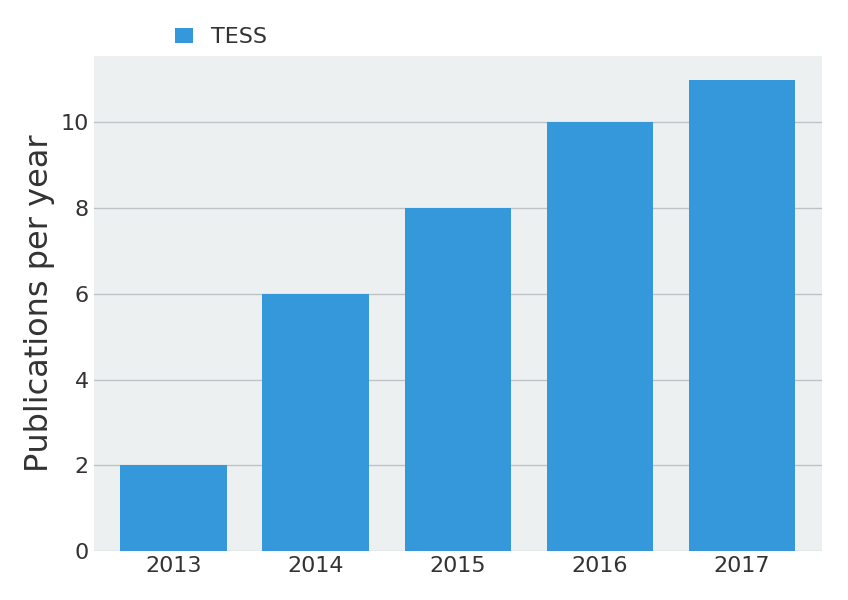
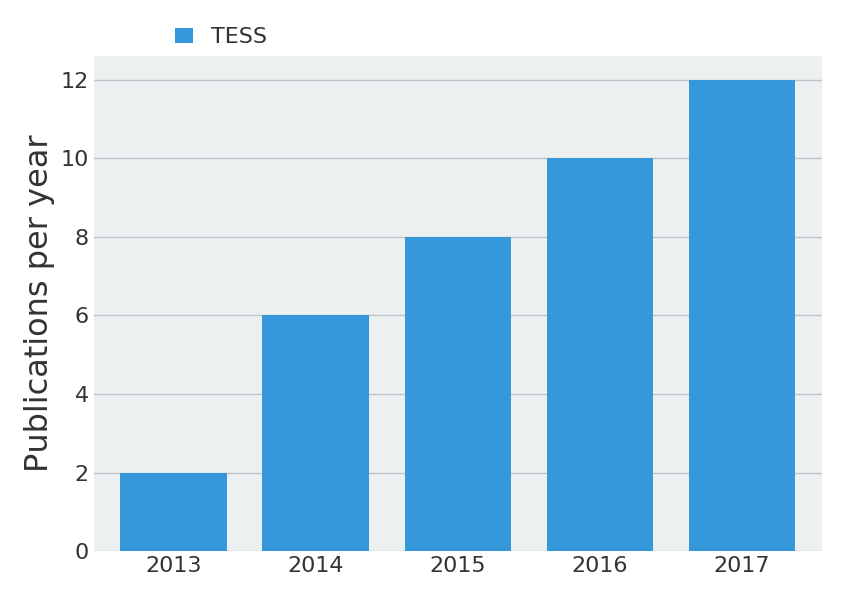
Publication stats update

diff --git a/content/pages/tpub/tpub.md b/content/pages/tpub/tpub.md
@@ -7,47 +7,51 @@ Save_as: tpub.html
 2017
 ----
 
-1. [EXOPLANET CHARACTERIZATION BY MULTI-OBSERVATORY TRANSIT PHOTOMETRY WITH TESS AND CHEOPS](http://adsabs.harvard.edu/abs/2017MNRAS.468.3418G)  
+1. [MULTI-BAND PHOTOMETRY AND SPECTROSCOPY OF AN ALL-SKY SAMPLE OF BRIGHT WHITE DWARFS](http://adsabs.harvard.edu/abs/2017arXiv170809394R)  
+Raddi, R., Gentile Fusillo, N. P., Pala, A. F., et al.    
+2017, pre-print ([2017arXiv170809394R](http://adsabs.harvard.edu/abs/2017arXiv170809394R))  
+
+2. [EXOPLANET CHARACTERIZATION BY MULTI-OBSERVATORY TRANSIT PHOTOMETRY WITH TESS AND CHEOPS](http://adsabs.harvard.edu/abs/2017MNRAS.468.3418G)  
 Gaidos, E., Kitzmann, D., Heng, K.    
 2017, refereed ([2017MNRAS.468.3418G](http://adsabs.harvard.edu/abs/2017MNRAS.468.3418G))  
 
-2. [THE TESS-HERMES SURVEY DATA RELEASE 1: HIGH-RESOLUTION SPECTROSCOPY OF THE TESS SOUTHERN CONTINUOUS VIEWING ZONE](http://adsabs.harvard.edu/abs/2017arXiv170705753S)  
+3. [THE TESS-HERMES SURVEY DATA RELEASE 1: HIGH-RESOLUTION SPECTROSCOPY OF THE TESS SOUTHERN CONTINUOUS VIEWING ZONE](http://adsabs.harvard.edu/abs/2017arXiv170705753S)  
 Sharma, Sanjib, Stello, Dennis, Buder, Sven, et al.    
 2017, pre-print ([2017arXiv170705753S](http://adsabs.harvard.edu/abs/2017arXiv170705753S))  
 
-3. [TRENDS IN ATMOSPHERIC PROPERTIES OF NEPTUNE-SIZE EXOPLANETS](http://adsabs.harvard.edu/abs/2017arXiv170800016C)  
+4. [TRENDS IN ATMOSPHERIC PROPERTIES OF NEPTUNE-SIZE EXOPLANETS](http://adsabs.harvard.edu/abs/2017arXiv170800016C)  
 Crossfield, Ian J. M., Kreidberg, Laura    
 2017, pre-print ([2017arXiv170800016C](http://adsabs.harvard.edu/abs/2017arXiv170800016C))  
 
-4. [THE TESS INPUT CATALOG AND CANDIDATE TARGET LIST](http://adsabs.harvard.edu/abs/2017arXiv170600495S)  
+5. [THE TESS INPUT CATALOG AND CANDIDATE TARGET LIST](http://adsabs.harvard.edu/abs/2017arXiv170600495S)  
 Stassun, Keivan G., Oelkers, Ryan J., Pepper, Joshua, et al.    
 2017, pre-print ([2017arXiv170600495S](http://adsabs.harvard.edu/abs/2017arXiv170600495S))  
 
-5. [PLANET DETECTION SIMULATIONS FOR SEVERAL POSSIBLE TESS EXTENDED MISSIONS](http://adsabs.harvard.edu/abs/2017arXiv170508891B)  
+6. [PLANET DETECTION SIMULATIONS FOR SEVERAL POSSIBLE TESS EXTENDED MISSIONS](http://adsabs.harvard.edu/abs/2017arXiv170508891B)  
 Bouma, L. G., Winn, Joshua N., Kosiarek, Jacobi, et al.    
 2017, pre-print ([2017arXiv170508891B](http://adsabs.harvard.edu/abs/2017arXiv170508891B))  
 
-6. [LIMB AND GRAVITY-DARKENING COEFFICIENTS FOR THE TESS SATELLITE AT SEVERAL METALLICITIES, SURFACE GRAVITIES, AND MICROTURBULENT VELOCITIES](http://adsabs.harvard.edu/abs/2017A&A...600A..30C)  
+7. [LIMB AND GRAVITY-DARKENING COEFFICIENTS FOR THE TESS SATELLITE AT SEVERAL METALLICITIES, SURFACE GRAVITIES, AND MICROTURBULENT VELOCITIES](http://adsabs.harvard.edu/abs/2017A&A...600A..30C)  
 Claret, A.    
 2017, refereed ([2017A&A...600A..30C](http://adsabs.harvard.edu/abs/2017A&A...600A..30C))  
 
-7. [ON THE STATISTICAL PROPERTIES OF THE LOWER MAIN SEQUENCE](http://adsabs.harvard.edu/abs/2017ApJ...839..116A)  
+8. [ON THE STATISTICAL PROPERTIES OF THE LOWER MAIN SEQUENCE](http://adsabs.harvard.edu/abs/2017ApJ...839..116A)  
 Angelou, George C., Bellinger, Earl P., Hekker, Saskia, et al.    
 2017, refereed ([2017ApJ...839..116A](http://adsabs.harvard.edu/abs/2017ApJ...839..116A))  
 
-8. [TEE, AN ESTIMATOR FOR THE PRECISION OF ECLIPSE AND TRANSIT MINIMUM TIMES](http://adsabs.harvard.edu/abs/2017A&A...599A..93D)  
+9. [TEE, AN ESTIMATOR FOR THE PRECISION OF ECLIPSE AND TRANSIT MINIMUM TIMES](http://adsabs.harvard.edu/abs/2017A&A...599A..93D)  
 Deeg, H. J., Tingley, B.    
 2017, refereed ([2017A&A...599A..93D](http://adsabs.harvard.edu/abs/2017A&A...599A..93D))  
 
-9. [TRANSIT CLAIRVOYANCE: ENHANCING TESS FOLLOW-UP USING ARTIFICIAL NEURAL NETWORKS](http://adsabs.harvard.edu/abs/2017MNRAS.465.3495K)  
+10. [TRANSIT CLAIRVOYANCE: ENHANCING TESS FOLLOW-UP USING ARTIFICIAL NEURAL NETWORKS](http://adsabs.harvard.edu/abs/2017MNRAS.465.3495K)  
 Kipping, David M., Lam, Christopher    
 2017, refereed ([2017MNRAS.465.3495K](http://adsabs.harvard.edu/abs/2017MNRAS.465.3495K))  
 
-10. [CEPHEIDS WITH THE EYES OF PHOTOMETRIC SPACE TELESCOPES](http://adsabs.harvard.edu/abs/2017arXiv170302421M)  
+11. [CEPHEIDS WITH THE EYES OF PHOTOMETRIC SPACE TELESCOPES](http://adsabs.harvard.edu/abs/2017arXiv170302421M)  
 Molnár, L., Pál, A., Plachy, E.    
 2017, pre-print ([2017arXiv170302421M](http://adsabs.harvard.edu/abs/2017arXiv170302421M))  
 
-11. [FOLLOW-UP AND CHARACTERIZATION OF THE TESS EXOPLANETS WITH SOPHIE, SPIROU, AND JWST](http://adsabs.harvard.edu/abs/2017arXiv170103539C)  
+12. [FOLLOW-UP AND CHARACTERIZATION OF THE TESS EXOPLANETS WITH SOPHIE, SPIROU, AND JWST](http://adsabs.harvard.edu/abs/2017arXiv170103539C)  
 Crouzet, N., Bonfils, X., Delfosse, X., et al.    
 2017, pre-print ([2017arXiv170103539C](http://adsabs.harvard.edu/abs/2017arXiv170103539C))  
 

diff --git a/content/pages/tpub/publications.md b/content/pages/tpub/publications.md
@@ -12,7 +12,7 @@ the TESS mission is provided by the NASA Explorer Program.*
 
 The TESS Science Support Center curates a list of scientific publications
 pertaining to TESS.
-The database contains 37 publications,
+The database contains 38 publications,
 of which 22 are peer-reviewed.
 It demonstrates the important impact of TESS data
 on astronomical research.
@@ -29,7 +29,7 @@ Or seach by topic:
 If you spot an error in the database, such as a missing entry,
 please get in touch or open an issue in the <a href="https://github.com/tessgi/tpub">GitHub repository</a> of the database.
 
-Last update: 24 Aug 2017.
+Last update: 10 Sep 2017.
 
 <hr/>
 
@@ -47,10 +47,10 @@ of year.
 Both TESS data have been used for scientific applications
 that reach far beyond exoplanet research.
 While 22 works relate to exoplanets
-(59%),
-a total of 15
+(58%),
+a total of 16
 pertain to other areas of astrophysics
-(41%).
+(42%).
 
 
 ![Publications by subject](images/tpub/tpub-piechart.png)
@@ -60,7 +60,7 @@ pertain to other areas of astrophysics
 ## Most-cited publications
 
 TESS publications have cumulatively been cited
-413 times.
+434 times.
 The list below shows the most-cited publications,
 based on the citation count obtained from NASA ADS.
 
@@ -68,22 +68,22 @@ based on the citation count obtained from NASA ADS.
 1. TRANSITING EXOPLANET SURVEY SATELLITE (TESS)  
 Ricker, George R., Winn, Joshua N., Vanderspek, Roland, et al.    
 [2015JATIS...1a4003R](http://adsabs.harvard.edu/abs/2015JATIS...1a4003R)
-<span class="badge">151 citations</span>
+<span class="badge">159 citations</span>
 
 2. THE TRANSITING EXOPLANET SURVEY SATELLITE: SIMULATIONS OF PLANET DETECTIONS AND ASTROPHYSICAL FALSE POSITIVES  
 Sullivan, Peter W., Winn, Joshua N., Berta-Thompson, Zachory K., et al.    
 [2015ApJ...809...77S](http://adsabs.harvard.edu/abs/2015ApJ...809...77S)
-<span class="badge">70 citations</span>
+<span class="badge">74 citations</span>
 
 3. CHARACTERIZING TRANSITING PLANET ATMOSPHERES THROUGH 2025  
 Cowan, N. B., Greene, T., Angerhausen, D., et al.    
 [2015PASP..127..311C](http://adsabs.harvard.edu/abs/2015PASP..127..311C)
-<span class="badge">32 citations</span>
+<span class="badge">35 citations</span>
 
 4. UNDERSTANDING THE EFFECTS OF STELLAR MULTIPLICITY ON THE DERIVED PLANET RADII FROM TRANSIT SURVEYS: IMPLICATIONS FOR KEPLER, K2, AND TESS  
 Ciardi, David R., Beichman, Charles A., Horch, Elliott P., et al.    
 [2015ApJ...805...16C](http://adsabs.harvard.edu/abs/2015ApJ...805...16C)
-<span class="badge">24 citations</span>
+<span class="badge">26 citations</span>
 
 5. THE TRANSITING EXOPLANET SURVEY SATELLITE MISSION  
 Ricker, G. R.    
@@ -130,7 +130,7 @@ within the last 90 days.
 <!-- ## Most-active authors
 
 The entries in the publication database have been authored and co-authored
-by a total of 223 unique author names.
+by a total of 237 unique author names.
 Here we list the most-active authors, defined as those with six or more first-author publications in our database.
 
 -->

diff --git a/content/pages/tpub/tpub-astrophysics.md b/content/pages/tpub/tpub-astrophysics.md
@@ -7,19 +7,23 @@ Save_as: tpub-astrophysics.html
 2017
 ----
 
-1. [THE TESS-HERMES SURVEY DATA RELEASE 1: HIGH-RESOLUTION SPECTROSCOPY OF THE TESS SOUTHERN CONTINUOUS VIEWING ZONE](http://adsabs.harvard.edu/abs/2017arXiv170705753S)  
+1. [MULTI-BAND PHOTOMETRY AND SPECTROSCOPY OF AN ALL-SKY SAMPLE OF BRIGHT WHITE DWARFS](http://adsabs.harvard.edu/abs/2017arXiv170809394R)  
+Raddi, R., Gentile Fusillo, N. P., Pala, A. F., et al.    
+2017, pre-print ([2017arXiv170809394R](http://adsabs.harvard.edu/abs/2017arXiv170809394R))  
+
+2. [THE TESS-HERMES SURVEY DATA RELEASE 1: HIGH-RESOLUTION SPECTROSCOPY OF THE TESS SOUTHERN CONTINUOUS VIEWING ZONE](http://adsabs.harvard.edu/abs/2017arXiv170705753S)  
 Sharma, Sanjib, Stello, Dennis, Buder, Sven, et al.    
 2017, pre-print ([2017arXiv170705753S](http://adsabs.harvard.edu/abs/2017arXiv170705753S))  
 
-2. [THE TESS INPUT CATALOG AND CANDIDATE TARGET LIST](http://adsabs.harvard.edu/abs/2017arXiv170600495S)  
+3. [THE TESS INPUT CATALOG AND CANDIDATE TARGET LIST](http://adsabs.harvard.edu/abs/2017arXiv170600495S)  
 Stassun, Keivan G., Oelkers, Ryan J., Pepper, Joshua, et al.    
 2017, pre-print ([2017arXiv170600495S](http://adsabs.harvard.edu/abs/2017arXiv170600495S))  
 
-3. [ON THE STATISTICAL PROPERTIES OF THE LOWER MAIN SEQUENCE](http://adsabs.harvard.edu/abs/2017ApJ...839..116A)  
+4. [ON THE STATISTICAL PROPERTIES OF THE LOWER MAIN SEQUENCE](http://adsabs.harvard.edu/abs/2017ApJ...839..116A)  
 Angelou, George C., Bellinger, Earl P., Hekker, Saskia, et al.    
 2017, refereed ([2017ApJ...839..116A](http://adsabs.harvard.edu/abs/2017ApJ...839..116A))  
 
-4. [CEPHEIDS WITH THE EYES OF PHOTOMETRIC SPACE TELESCOPES](http://adsabs.harvard.edu/abs/2017arXiv170302421M)  
+5. [CEPHEIDS WITH THE EYES OF PHOTOMETRIC SPACE TELESCOPES](http://adsabs.harvard.edu/abs/2017arXiv170302421M)  
 Molnár, L., Pál, A., Plachy, E.    
 2017, pre-print ([2017arXiv170302421M](http://adsabs.harvard.edu/abs/2017arXiv170302421M))  
 

diff --git a/content/pages/tpub/tpub-astrophysics-by-month.md b/content/pages/tpub/tpub-astrophysics-by-month.md
@@ -4,6 +4,14 @@ Save_as: tpub-astrophysics-by-month.html
 [TOC]
 
 
+2017-08
+-------
+
+1. [MULTI-BAND PHOTOMETRY AND SPECTROSCOPY OF AN ALL-SKY SAMPLE OF BRIGHT WHITE DWARFS](http://adsabs.harvard.edu/abs/2017arXiv170809394R)  
+Raddi, R., Gentile Fusillo, N. P., Pala, A. F., et al.    
+2017, pre-print ([2017arXiv170809394R](http://adsabs.harvard.edu/abs/2017arXiv170809394R))  
+
+
 2017-07
 -------
 

diff --git a/content/pages/tpub/tpub-by-month.md b/content/pages/tpub/tpub-by-month.md
@@ -4,6 +4,14 @@ Save_as: tpub-by-month.html
 [TOC]
 
 
+2017-08
+-------
+
+1. [MULTI-BAND PHOTOMETRY AND SPECTROSCOPY OF AN ALL-SKY SAMPLE OF BRIGHT WHITE DWARFS](http://adsabs.harvard.edu/abs/2017arXiv170809394R)  
+Raddi, R., Gentile Fusillo, N. P., Pala, A. F., et al.    
+2017, pre-print ([2017arXiv170809394R](http://adsabs.harvard.edu/abs/2017arXiv170809394R))  
+
+
 2017-07
 -------
 
